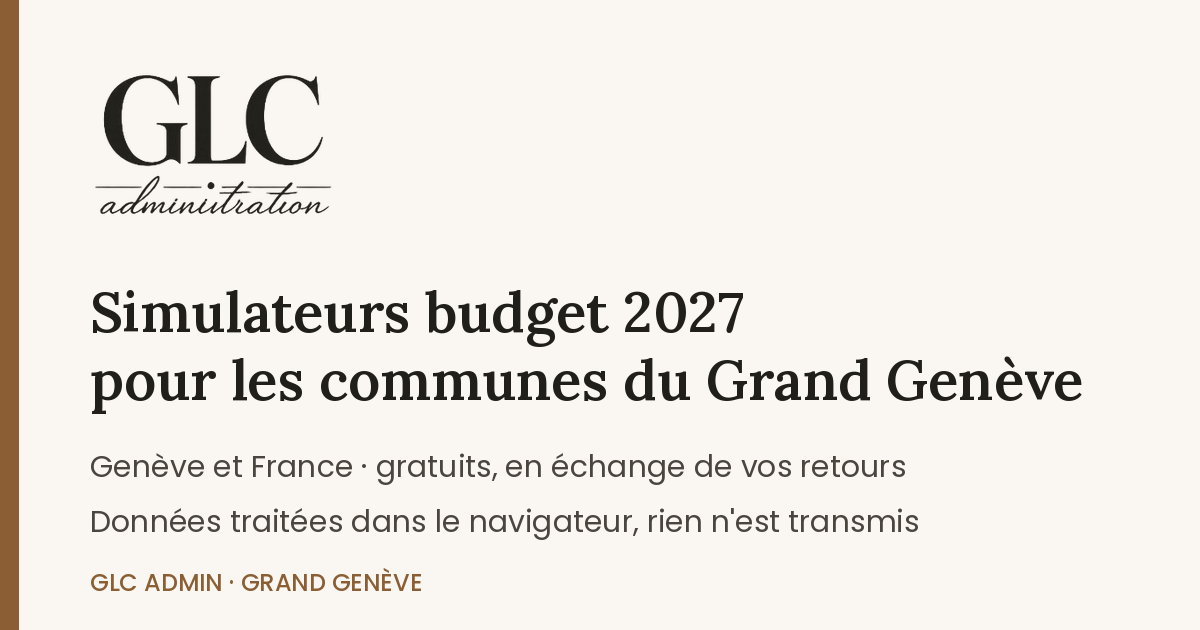
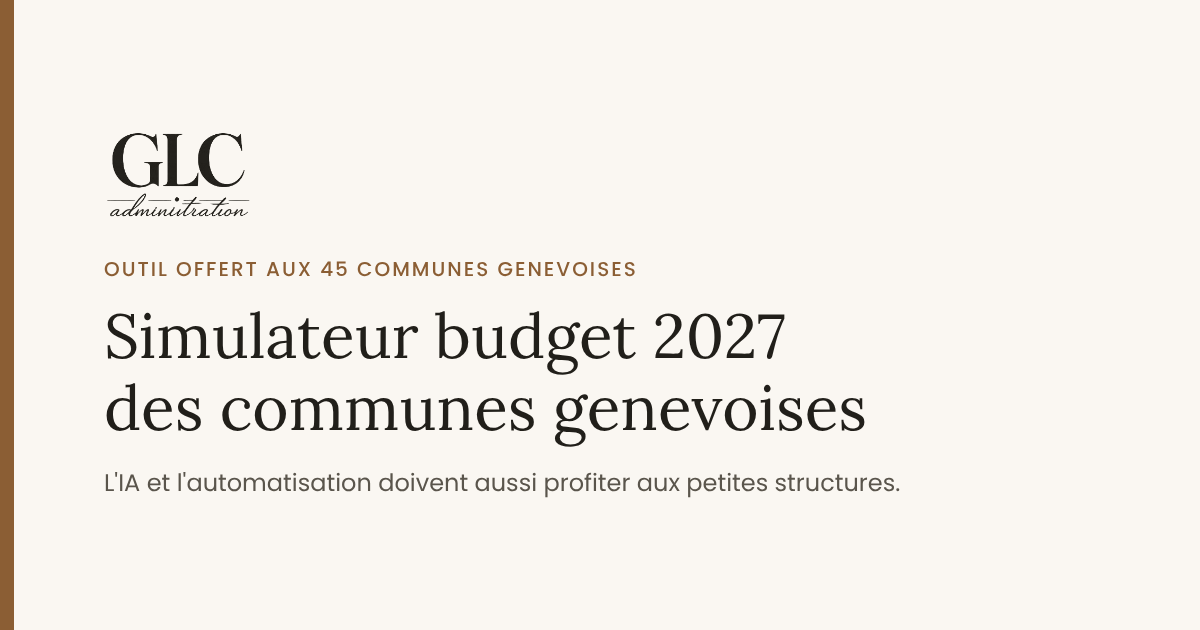
Page recentrée sur la démarche et le simulateur genevois
Ton plus social, suppression de la page partenaire, nouvel aperçu de partage, README mis à jour.

Claude-Session: https://claude.ai/code/session_01QvGqYqj5ZaoQDPMwA2GaEi

diff --git a/docs/index.html b/docs/index.html
@@ -3,15 +3,15 @@
 <head>
 <meta charset="utf-8">
 <meta name="viewport" content="width=device-width, initial-scale=1">
-<title>GLC Admin · Outils pour les communes du Grand Genève</title>
-<meta name="description" content="Outils gratuits pour les communes du Grand Genève, en Suisse et en France : simulateurs budget 2027. Par GLC Admin, externalisation administrative, comptable et RH.">
+<title>GLC Admin · L'IA et l'automatisation au service des petites structures</title>
+<meta name="description" content="GLC Admin rend l'IA et l'automatisation accessibles aux communes, PME et associations, pour soulager l'administratif, la comptabilité et les RH. Premier outil : simulateur budget 2027 des communes genevoises.">
 <link rel="canonical" href="https://glc-administration.github.io/">
 <meta property="og:type" content="website">
 <meta property="og:site_name" content="GLC Admin">
 <meta property="og:locale" content="fr_CH">
 <meta property="og:url" content="https://glc-administration.github.io/">
-<meta property="og:title" content="Simulateurs budget 2027 pour les communes du Grand Genève · GLC Admin">
-<meta property="og:description" content="Deux outils gratuits pour préparer les budgets 2027 : communes genevoises et collectivités françaises. Les données restent dans votre navigateur.">
+<meta property="og:title" content="Simulateur budget 2027 des communes genevoises · GLC Admin">
+<meta property="og:description" content="Un outil offert aux 45 communes genevoises pour mesurer l'effet du budget cantonal 2027. L'IA et l'automatisation doivent aussi profiter aux petites structures.">
 <meta property="og:image" content="https://glc-administration.github.io/assets/apercu-partage.png">
 <meta property="og:image:width" content="1200">
 <meta property="og:image:height" content="630">
@@ -95,6 +95,16 @@ footer a{color:#cfc7bb}
 .sommaire a{font-size:14px;border:1px solid var(--ligne);background:var(--blanc);padding:7px 14px;border-radius:20px;text-decoration:none;color:var(--encre)}
 .sommaire a:hover{border-color:var(--bronze);color:var(--bronze)}
 @media (max-width:820px){.outil-large{grid-template-columns:1fr;padding:22px}}
+.principes{display:grid;grid-template-columns:repeat(4,1fr);gap:18px}
+.principes div{background:var(--blanc);border:1px solid var(--ligne);border-radius:10px;padding:20px}
+.principes b{font-family:var(--serif);font-size:17px;display:block;margin-bottom:6px}
+.principes p{margin:0;font-size:14px;color:var(--gris)}
+.citation{font-family:var(--serif);font-size:22px;line-height:1.45;border-left:3px solid var(--bronze);padding:4px 0 4px 20px;margin:0 0 34px;max-width:760px}
+.probleme{font-size:15.5px;background:#fbf5ee;border-radius:8px;padding:14px 16px;margin:0 0 14px}
+.exemples{display:flex;flex-wrap:wrap;gap:10px;margin-top:6px}
+.exemples span{background:var(--blanc);border:1px solid var(--ligne);border-radius:20px;padding:7px 14px;font-size:14px}
+@media (max-width:900px){.principes{grid-template-columns:1fr 1fr}}
+@media (max-width:600px){.principes{grid-template-columns:1fr}}
 </style>
 </head>
 <body>
@@ -105,8 +115,8 @@ footer a{color:#cfc7bb}
       <span id="logo-texte" hidden>GLC <span>Admin</span></span>
     </a>
     <nav aria-label="Navigation principale">
-      <a href="#outils">Les outils</a>
       <a href="#demarche">La démarche</a>
+      <a href="#outil">L'outil</a>
       <a href="#contact">Contact</a>
     </nav>
   </div>
@@ -115,61 +125,40 @@ footer a{color:#cfc7bb}
 <main>
   <div class="hero">
     <div class="wrap">
-      <p class="surtitre">GLC Admin · Grand Genève</p>
-      <h1>Des outils simples et gratuits pour les communes, des deux côtés de la frontière.</h1>
-      <p class="lead">J'accompagne les petites sociétés, les communes et les associations en prenant en charge leurs tâches administratives, comptables et RH. Je partage ici des outils pratiques, pensés pour faire gagner du temps, sans abonnement et sans que vos données quittent votre poste.</p>
-      <a class="btn plein" href="#outils">Découvrir les outils</a>
+      <p class="surtitre">GLC Admin · Administratif, comptabilité, RH · Grand Genève</p>
+      <h1>L'IA et l'automatisation doivent aussi profiter aux petites structures.</h1>
+      <p class="lead">Aujourd'hui, ces outils profitent surtout aux grandes entreprises. Pourtant, ce sont souvent les petites communes, les PME et les associations qui manquent le plus de temps et de moyens. Je conçois des outils simples et accessibles, pour alléger leur charge administrative et rendre du temps aux personnes : aux habitants, aux clients, aux bénévoles.</p>
+      <a class="btn plein" href="#outil">Découvrir le premier outil</a>
       <a class="btn vide" href="#contact">Parler de votre besoin</a>
-      <div class="engagements">
-        <div><b>Vos données restent chez vous</b><p>Les outils fonctionnent dans le navigateur. Rien n'est envoyé sur internet.</p></div>
-        <div><b>Adaptés à chaque pays</b><p>Règles, plans comptables et vocabulaire : chaque outil parle le langage des collectivités suisses ou françaises.</p></div>
-        <div><b>Gratuits, en échange de vos retours</b><p>Utilisez-les librement ; vos avis et critiques constructives les rendent plus justes pour tous.</p></div>
-      </div>
     </div>
   </div>
 
-  <section id="outils">
+  <section id="demarche">
     <div class="wrap">
-      <h2>Les outils</h2>
-      <p class="intro">Deux simulateurs pour préparer les budgets 2027, l'un pour les collectivités françaises, l'autre pour les communes genevoises.</p>
-      <div class="sommaire">
-        <a href="#outil-france">France · Du PLF 2027 au BP 2027</a>
-        <a href="#outil-geneve">Genève · Simulateur budget 2027</a>
+      <h2>La démarche</h2>
+      <p class="citation">Que personne ne reste à l'écart de ces outils faute de budget ou de compétences techniques. Partir d'une petite tâche qui pèse, et la rendre plus légère.</p>
+      <div class="principes">
+        <div><b>Soulager, pas remplacer</b><p>L'outil prépare, calcule et met en forme. Les personnes gardent la décision, le contrôle et le lien humain.</p></div>
+        <div><b>Accessible à tous</b><p>Pas d'abonnement, pas de serveur, pas de compétences techniques : un outil qui s'ouvre dans le navigateur, à la portée d'une petite commune ou d'une association.</p></div>
+        <div><b>Partagé, pas confisqué</b><p>Quand c'est possible, les outils sont proposés gratuitement et améliorés grâce aux retours de celles et ceux qui les utilisent.</p></div>
+        <div><b>Respect de vos données</b><p>Rien n'est envoyé sur internet. Les chiffres saisis restent sur votre poste.</p></div>
       </div>
+    </div>
+  </section>
 
-      <article class="outil-large" id="outil-france">
+  <section id="outil">
+    <div class="wrap">
+      <h2>Premier outil : le budget 2027 des communes genevoises</h2>
+      <p class="intro">Un exemple concret de cette démarche, offert aux 45 communes genevoises, des plus grandes aux plus petites, pendant la préparation de leur budget. Les petites communes, sans service financier étoffé, sont celles qui en ont le plus besoin.</p>
+      <article class="outil-large">
         <div class="presentation">
-          <span class="num">Outil partenaire · France</span>
-          <h3>Du PLF 2027 au BP 2027</h3>
-          <p class="pour"><span class="tag">Finances</span> Communes et intercommunalités françaises</p>
-          <p>Le projet de loi de finances 2027 va peser sur le budget des collectivités. Ce simulateur, conçu par Sandrine Gérard, spécialiste des finances locales dans le Loiret, en estime l'effet commune par commune, à partir des comptes déjà publiés.</p>
-          <p>Il suffit de rechercher sa commune ou son intercommunalité, puis de compléter avec ses chiffres 2026.</p>
-          <p class="credit">Outil créé et mis à jour par Sandrine Gérard, partagé ici avec son accord. Il a inspiré le simulateur genevois présenté ci-dessous.</p>
-        </div>
-        <div>
-          <h4>Ce qu'il fait</h4>
-          <ul>
-            <li>Estime l'effet du PLF 2027 et du décret CNRACL sur l'épargne brute et le FCTVA.</li>
-            <li>Comptes 2025 préchargés pour chaque commune et intercommunalité.</li>
-            <li>Perspective BP 2027, prospective 2027-2029.</li>
-            <li>Note de synthèse pour les élus et le débat d'orientation budgétaire.</li>
-          </ul>
-          <div class="actions">
-            <a class="btn plein" href="outils/simulateur-plf-2027-france/">Essayer l'outil</a>
-            <a class="btn vide" href="https://sandrineanne.github.io/Du-PLF-2027-au-BP-2027/communes-intercommunalites.html" target="_blank" rel="noopener">Site de l'autrice ↗</a>
-          </div>
-        </div>
-      </article>
-
-      <article class="outil-large" id="outil-geneve">
-        <div class="presentation">
-          <span class="num">Outil GLC Admin · Suisse</span>
-          <h3>Simulateur budget 2027 des communes genevoises</h3>
-          <p class="pour"><span class="tag">Finances</span> Les 45 communes genevoises</p>
-          <p>Le projet de budget cantonal 2027 prévoit de faire financer par les communes 20 % de la péréquation intercantonale, soit 134 millions. J'ai conçu ce simulateur pour que chaque commune mesure ce que cela représente pour elle, et vérifie si son budget 2027 reste dans les règles.</p>
-          <p>Les données publiques des 45 communes sont déjà intégrées. Il suffit d'ajouter son budget, par exemple en le copiant depuis Excel.</p>
+          <span class="num">Outil gratuit · Communes genevoises</span>
+          <h3>Simulateur budget 2027</h3>
+          <p class="pour"><span class="tag">Finances communales</span> Secrétariats généraux, services financiers, exécutifs</p>
+          <p class="probleme"><b>Le problème :</b> chaque automne, les communes doivent mesurer l'effet des décisions cantonales sur leur budget, souvent à la main et dans des délais serrés. En 2027, le canton prévoit de leur faire financer 20 % de la péréquation intercantonale, soit 134 millions.</p>
+          <p><b>Ce que fait l'outil :</b> il chiffre en quelques minutes la part de votre commune, vérifie votre budget au regard des règles d'équilibre et prépare une note de synthèse pour l'exécutif. Les données publiques des 45 communes sont déjà intégrées.</p>
           <div class="avis">
-            <b>Gratuit, en échange de votre avis.</b> Cet outil est en phase de relecture. Un avis ou une critique constructive m'aide à le rendre plus juste pour toutes les communes.
+            <b>Gratuit, en échange de votre avis.</b> L'outil est en phase de relecture. Un avis ou une critique constructive m'aide à le rendre plus juste pour toutes les communes.
             <ul>
               <li><a href="outils/simulateur-budget-2027/dossier-relecture-comptable.pdf" download>Dossier de relecture (PDF)</a> : données, formules et questions ouvertes</li>
               <li><a href="outils/simulateur-budget-2027/jeu-essai-plan-les-ouates.json" download>Budget fictif de test (.json)</a>, à charger avec le bouton « Ouvrir… »</li>
@@ -177,43 +166,45 @@ footer a{color:#cfc7bb}
           </div>
         </div>
         <div>
-          <h4>Ce qu'il fait</h4>
+          <h4>En détail</h4>
           <ul>
-            <li>Estime la part de la commune en francs, par habitant et en centimes additionnels équivalents.</li>
+            <li>Part estimée de la commune en francs, par habitant et en centimes additionnels équivalents.</li>
             <li>Saisie du budget par natures MCH2, collage direct depuis Excel.</li>
             <li>Lecture des règles d'équilibre de la LAC, dont la dérogation RFFA.</li>
-            <li>Prospective 2027-2030 et note de synthèse pour l'exécutif.</li>
+            <li>Prospective 2027-2030 et note de synthèse prête à imprimer.</li>
           </ul>
           <div class="actions">
             <a class="btn plein" href="outils/simulateur-budget-2027/">Essayer l'outil</a>
             <a class="btn vide" href="mailto:contact@glc-admin.com?subject=Avis%20sur%20le%20simulateur%20budget%202027&body=Bonjour%20Ga%C3%ABlle%2C%0A%0AMa%20commune%20ou%20structure%20%3A%20%0AMa%20fonction%20%3A%20%0A%0ACe%20qui%20fonctionne%20bien%20%3A%20%0A%0ACe%20qui%20est%20%C3%A0%20corriger%20ou%20%C3%A0%20am%C3%A9liorer%20%3A%20%0A%0A">Donner mon avis</a>
           </div>
-          <p class="note" style="margin-top:10px">Vous avez un compte GitHub ? <a href="https://github.com/GLC-administration/GLC-administration.github.io/issues/new" target="_blank" rel="noopener">Signalez une erreur ou une amélioration</a>, publiquement et en quelques clics.</p>
-          <p class="note" style="margin-top:10px">Pas de messagerie installée ? Écrivez-moi à <b>contact@glc-admin.com</b> en indiquant votre commune et vos remarques.</p>
-          <p class="note" style="margin-top:10px">Données publiques au 12.11.2026 · estimations sur un projet de loi non adopté</p>
+          <p class="note" style="margin-top:10px">Vous avez un compte GitHub ? <a href="https://github.com/GLC-administration/GLC-administration.github.io/issues/new" target="_blank" rel="noopener">Signalez une erreur ou une amélioration</a>.</p>
+          <p class="note">Pas de messagerie installée ? Écrivez à <b>contact@glc-admin.com</b>.</p>
+          <p class="note">Données publiques au 12.11.2026 · estimations sur un projet de loi non adopté.</p>
         </div>
       </article>
     </div>
   </section>
 
-  <section id="demarche">
+  <section>
     <div class="wrap">
-      <h2>La démarche</h2>
-      <p class="intro">Chaque outil part d'une tâche réelle qui prend trop de temps. Je l'adapte à votre fonctionnement, je l'installe et je forme l'équipe.</p>
-      <div class="etapes">
-        <div><b>Échange</b><p>Nous identifions la tâche répétitive ou le point de friction.</p></div>
-        <div><b>Adaptation</b><p>J'ajuste l'outil à vos règles, vos listes et vos modèles.</p></div>
-        <div><b>Installation</b><p>Mise en place sur vos postes, avec une configuration partagée.</p></div>
-        <div><b>Prise en main</b><p>Courte formation et suivi pour les ajustements.</p></div>
+      <h2>Et dans votre structure ?</h2>
+      <p class="intro">Commune, PME ou association : l'administratif, la comptabilité et les RH sont mon métier depuis plus de 15 ans à Genève. La même démarche peut alléger d'autres tâches qui reviennent sans cesse, par exemple :</p>
+      <div class="exemples">
+        <span>Classer et nommer les documents scannés</span>
+        <span>Préparer les relances de factures</span>
+        <span>Contrôler les heures avant les salaires</span>
+        <span>Suivre les échéances administratives</span>
+        <span>Mettre en forme des rapports récurrents</span>
       </div>
+      <p class="intro" style="margin-top:22px">Décrivez-moi la vôtre : nous verrons ensemble si un outil simple peut vous soulager, et à quel coût raisonnable.</p>
     </div>
   </section>
 
   <section id="contact" class="contact">
     <div class="wrap">
-      <h2>Un besoin dans votre administration ?</h2>
-      <p>Décrivez-moi la tâche qui vous prend le plus de temps. Je vous réponds avec une proposition concrète. Adresse : <b style="color:#fff">contact@glc-admin.com</b></p>
-      <p><a class="btn plein" href="mailto:contact@glc-admin.com?subject=Outils%20administratifs">Écrire à contact@glc-admin.com</a></p>
+      <h2>Parlons de votre besoin</h2>
+      <p>Quelle tâche vous éloigne trop souvent de l'essentiel ? Écrivez-moi, je vous réponds avec une proposition concrète et adaptée à vos moyens. Adresse : <b style="color:#fff">contact@glc-admin.com</b></p>
+      <p><a class="btn plein" href="mailto:contact@glc-admin.com?subject=Un%20besoin%20administratif">Écrire à contact@glc-admin.com</a></p>
       <p style="font-size:14px">Site : <a class="mail" href="https://glc-admin.com">glc-admin.com</a></p>
     </div>
   </section>
@@ -222,7 +213,7 @@ footer a{color:#cfc7bb}
 <footer>
   <div class="wrap">
     <span>© 2026 GLC Admin · Gaëlle Le Cadet · Grand Genève</span>
-    <span>Outils indépendants, sans lien avec les administrations cantonales, communales ou de l'Etat français.</span>
+    <span>Outil indépendant, sans lien avec l'Etat de Genève ni l'Association des communes genevoises.</span>
   </div>
 </footer>
 </body>

diff --git a/README.md b/README.md
@@ -1,10 +1,9 @@
-# GLC Admin · Outils pour les communes du Grand Genève
+# GLC Admin · L'IA et l'automatisation au service des petites structures
 
-Outils gratuits, utilisables dans le navigateur, pour les communes, des deux côtés de la frontière.
+Des outils simples et accessibles pour alléger l'administratif, la comptabilité et les RH des communes, PME et associations. Premier outil : le simulateur budget 2027 des communes genevoises.
 
 | Outil | Pour qui | Lien |
 |---|---|---|
-| Du PLF 2027 au BP 2027 (outil partenaire de Sandrine Gérard) | Communes et intercommunalités françaises | [docs/outils/simulateur-plf-2027-france](docs/outils/simulateur-plf-2027-france/) |
 | Simulateur budget 2027 | Les 45 communes genevoises | [docs/outils/simulateur-budget-2027](docs/outils/simulateur-budget-2027/) |
 
 ## Principes
@@ -24,9 +23,8 @@ Le site publié se trouve dans le dossier `docs/` (dossier de publication GitHub
 docs/index.html                                  page d'accueil (tous les outils)
 docs/assets/logo-glc-admin.png                   logo
 docs/outils/simulateur-budget-2027/              simulateur genevois, dossier de relecture, budget fictif
-docs/outils/simulateur-plf-2027-france/          page partenaire (outil de Sandrine Gérard)
 ```
 
 Site en ligne : https://glc-administration.github.io/
 
-© 2026 GLC Admin. Tous droits réservés. L'outil « Du PLF 2027 au BP 2027 » reste la propriété de son autrice.
+© 2026 GLC Admin. Tous droits réservés.
